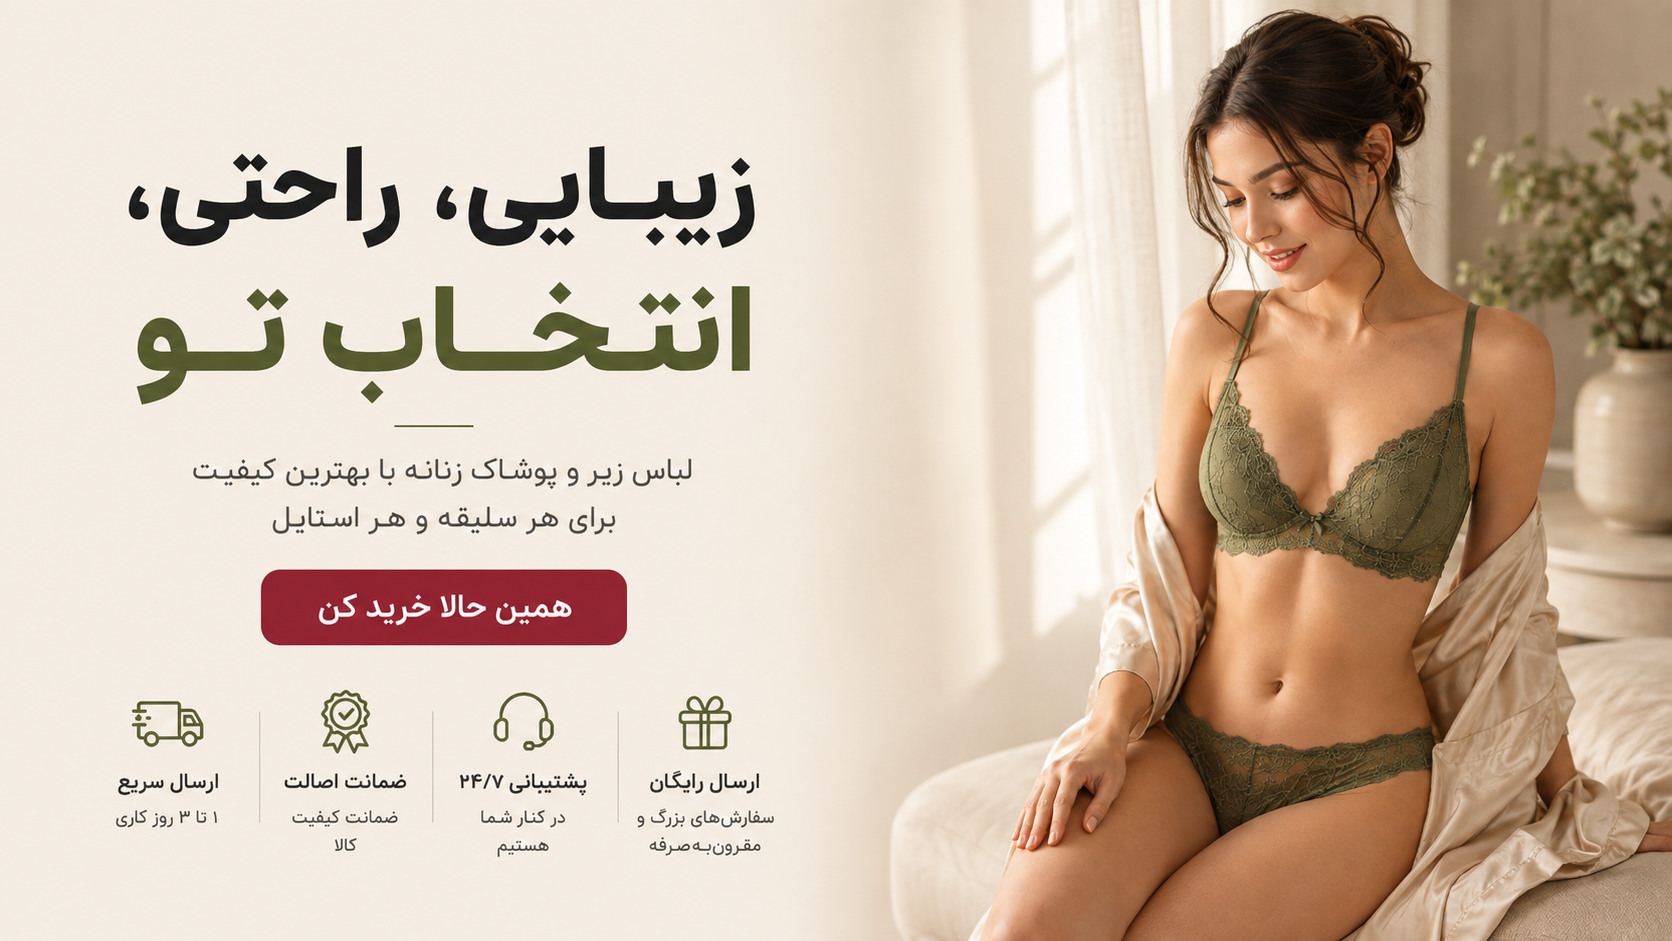
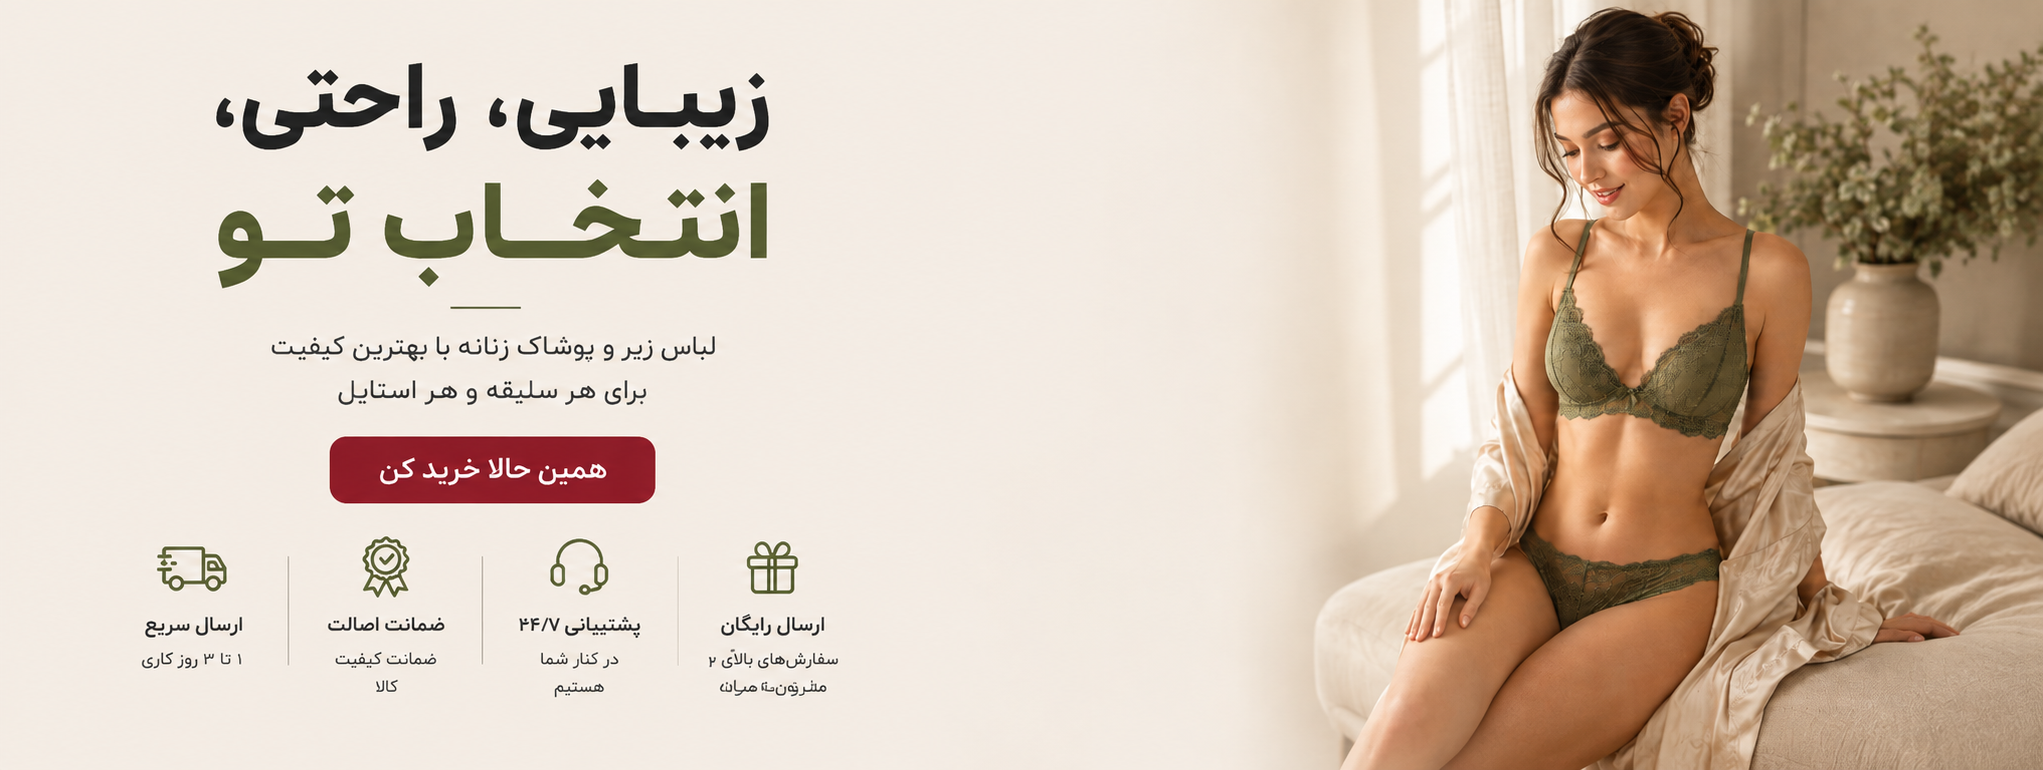
فاز ۷-ز

diff --git a/index.html b/index.html
@@ -240,6 +240,7 @@
           <h2 class="section-title">دستهبندیها</h2>
           <p class="section-sub">هرچی دنبالشی، همینجاست</p>
         </div>
+        <a href="shop.html" class="btn-ghost">مشاهده همه ←</a>
       </div>
       <div class="category-scroller">
         <a href="category.html?cat=bra" class="category-card"><div class="ph-image ratio-4-5"><img class="ph-photo" src="images/AX/bra-sage-lace.png" alt="سوتین زنانه هکوبا"></div><span>سوتین</span></a>

diff --git a/css/style.css b/css/style.css
@@ -1046,6 +1046,9 @@ html[dir="rtl"] .drawer.from-start { transform: translateX(100%); }
     justify-content: center;
     margin-inline: calc(var(--container-pad) * -1);
     padding-inline: var(--container-pad);
+    /* Reserves room for the ~5.1px hover-ring overflow (scale(1.05) + box-shadow)
+       so overflow-x:auto stops clipping it vertically too. */
+    padding-block: var(--space-3);
   }
   .category-card span { font-size: 14px; }
   .category-scroller .category-card .ph-image {
